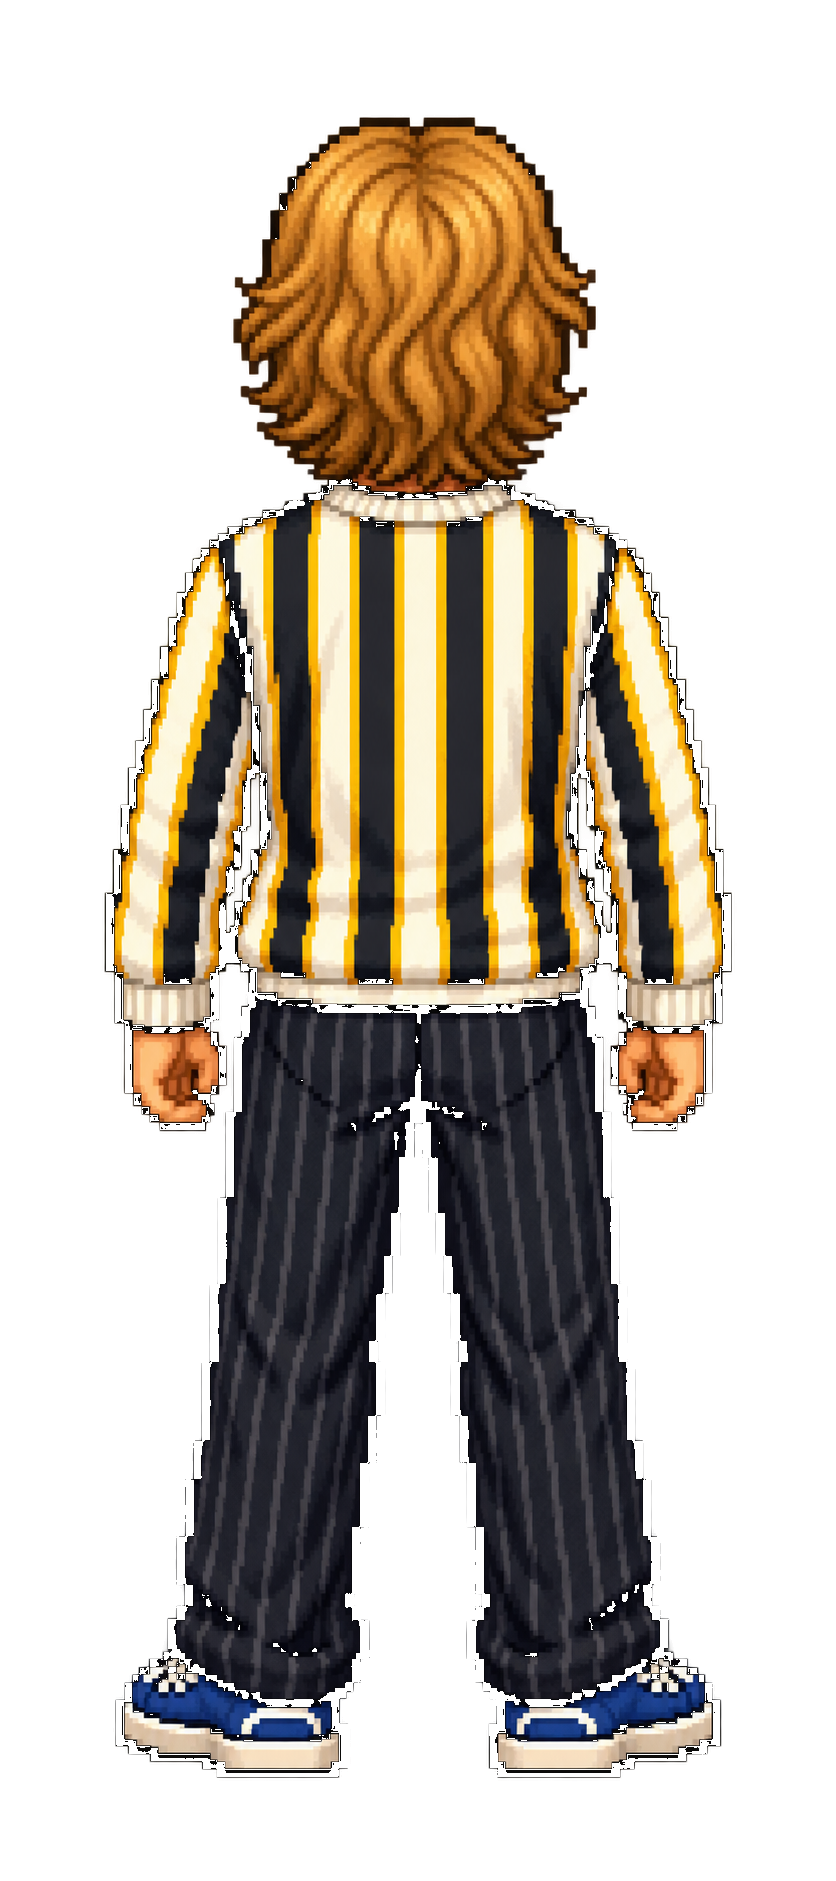
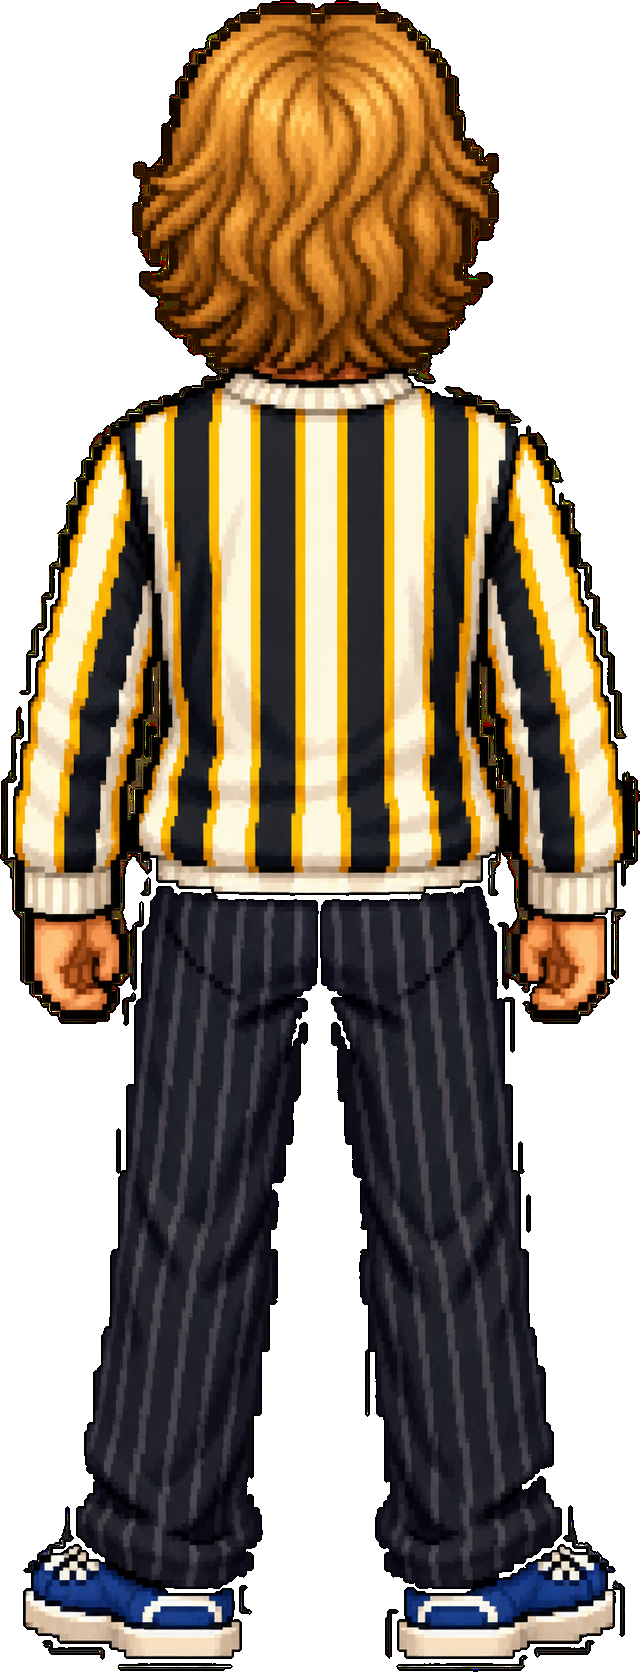
Add files via upload

diff --git a/animation-fix.js b/animation-fix.js
@@ -1,65 +1,40 @@
 (() => {
   "use strict";
 
-  if (window.__SIMON_ANIMATION_FIX_V6__) return;
-  window.__SIMON_ANIMATION_FIX_V6__ = true;
+  if (window.__SIMON_ANIMATION_FIX_V8__) return;
+  window.__SIMON_ANIMATION_FIX_V8__ = true;
 
   const originalStartSimonGame = window.startSimonGame;
-
   if (typeof originalStartSimonGame !== "function") {
-    console.error("Animation-Fix v6: startSimonGame wurde nicht gefunden.");
+    console.error("Animation-Fix v8: startSimonGame wurde nicht gefunden.");
     return;
   }
 
-  window.startSimonGame = function startSimonGameWithAnimationFix(...args) {
+  window.startSimonGame = function startSimonGameWithJumpFix(...args) {
     const game = originalStartSimonGame.apply(this, args);
-    if (game) {
-      waitForScene(game);
-    }
+    if (game) waitForScene(game);
     return game;
   };
 
   function waitForScene(game, attempt = 0) {
     const scene = game.scene?.getScene("MilchbuckScene") || game.scene?.getScene("PrototypeScene");
-
     if (scene?.player?.body) {
-      installAnimationFix(scene);
+      installJumpFix(scene);
       return;
     }
-
     if (attempt >= 160) {
-      console.error("Animation-Fix v6: Spielszene wurde nicht rechtzeitig bereit.");
+      console.error("Animation-Fix v8: Spielszene wurde nicht rechtzeitig bereit.");
       return;
     }
-
     window.setTimeout(() => waitForScene(game, attempt + 1), 50);
   }
 
-  function installAnimationFix(scene) {
-    if (scene.__simonAnimationFixInstalledV6) return;
-    scene.__simonAnimationFixInstalledV6 = true;
+  function installJumpFix(scene) {
+    if (scene.__simonJumpFixInstalledV8) return;
+    scene.__simonJumpFixInstalledV8 = true;
 
-    /*
-      RUN FIX
-      Das Problem liegt nicht nur im Loop, sondern in der Auswahl der Frames.
-      Deshalb definieren wir einen komplett neuen Run-Zyklus auf Basis der
-      brauchbarsten Laufposen. Weniger "hängende" Zwischenbilder, klarere
-      Beinwechsel, dadurch flüssiger.
-    */
-    if (scene.anims.exists("simon-run")) {
-      scene.anims.remove("simon-run");
-    }
-
-    scene.anims.create({
-      key: "simon-run",
-      frames: scene.anims.generateFrameNumbers("simon", {
-        frames: [8, 9, 10, 11, 12, 13, 14, 15, 14, 13, 12, 11]
-      }),
-      frameRate: 16,
-      repeat: -1,
-      skipMissedFrames: true
-    });
-
+    // RUN IS INTENTIONALLY UNTOUCHED.
+    // The current game.js uses the original animation from the first spritesheet.
     let wasGrounded = true;
     let landingUntil = 0;
 
@@ -69,34 +44,29 @@
       if (!player || !body) return;
 
       const grounded = body.blocked.down || body.touching.down;
-      const shooting = typeof scene.shootingUntil === 'number' && time < scene.shootingUntil;
+      const shooting = typeof scene.shootingUntil === "number" && time < scene.shootingUntil;
 
-      // Dialoge / Modal / UI-Lock unangetastet lassen.
-      if (scene.uiLocked) {
+      // Friend's newer game states: never interfere with combat, death, modal/dialogue
+      // locking, or the HIVE dance overlay.
+      if (
+        scene.uiLocked ||
+        scene.playerDying ||
+        scene.danceOverlay ||
+        shooting
+      ) {
         wasGrounded = grounded;
         return;
       }
 
-      if (shooting) {
-        wasGrounded = grounded;
-        return;
-      }
-
-      // Jump fix bleibt aktiv.
       if (!grounded) {
         wasGrounded = false;
         player.anims.stop();
-
         const vy = body.velocity.y;
-        if (vy < -260) {
-          player.setFrame(19);
-        } else if (vy < -80) {
-          player.setFrame(20);
-        } else if (vy < 100) {
-          player.setFrame(21);
-        } else {
-          player.setFrame(22);
-        }
+
+        if (vy < -260) player.setFrame(19);
+        else if (vy < -80) player.setFrame(20);
+        else if (vy < 100) player.setFrame(21);
+        else player.setFrame(22);
         return;
       }
 
@@ -111,6 +81,6 @@
       }
     });
 
-    console.info("Simon Animation-Fix v6 aktiv.");
+    console.info("Simon Jump-Fix v8 aktiv; Run bleibt original.");
   }
 })();

diff --git a/index.html b/index.html
@@ -18,7 +18,7 @@
   <link href="https://fonts.googleapis.com/css2?family=Press+Start+2P&display=swap" rel="stylesheet">
 
   <link rel="stylesheet" href="style.css">
-  <link rel="stylesheet" href="dialog-fix.css?v=6">
+  <link rel="stylesheet" href="dialog-fix.css?v=8">
 </head>
 <body>
   <div id="app-shell">
@@ -35,7 +35,7 @@
         <div class="characters" aria-hidden="true">
           <div class="dialog-character dialog-character-simon">
             <img
-              src="assets/simon-dialog-back-clean.png"
+              src="simon-dialog-back-clean.png?v=8"
               alt=""
               class="dialog-character-image"
               draggable="false"
@@ -68,7 +68,7 @@
 
   <script src="https://cdn.jsdelivr.net/npm/phaser@3.90.0/dist/phaser.min.js"></script>
   <script src="game.js"></script>
-  <script src="animation-fix.js?v=6"></script>
+  <script src="animation-fix.js?v=8"></script>
   <script src="script.js"></script>
 </body>
 </html>

diff --git a/dialog-fix.css b/dialog-fix.css
@@ -1,4 +1,4 @@
-/* Simon im ersten Dialogframe */
+/* Update 08: Simon im ersten Dialogframe */
 .dialog-character {
   position: relative;
   width: 102px;
@@ -28,7 +28,6 @@
     height: 118px;
     flex-basis: 88px;
   }
-
   .dialog-character-image {
     height: 116px;
     max-width: 96px;
